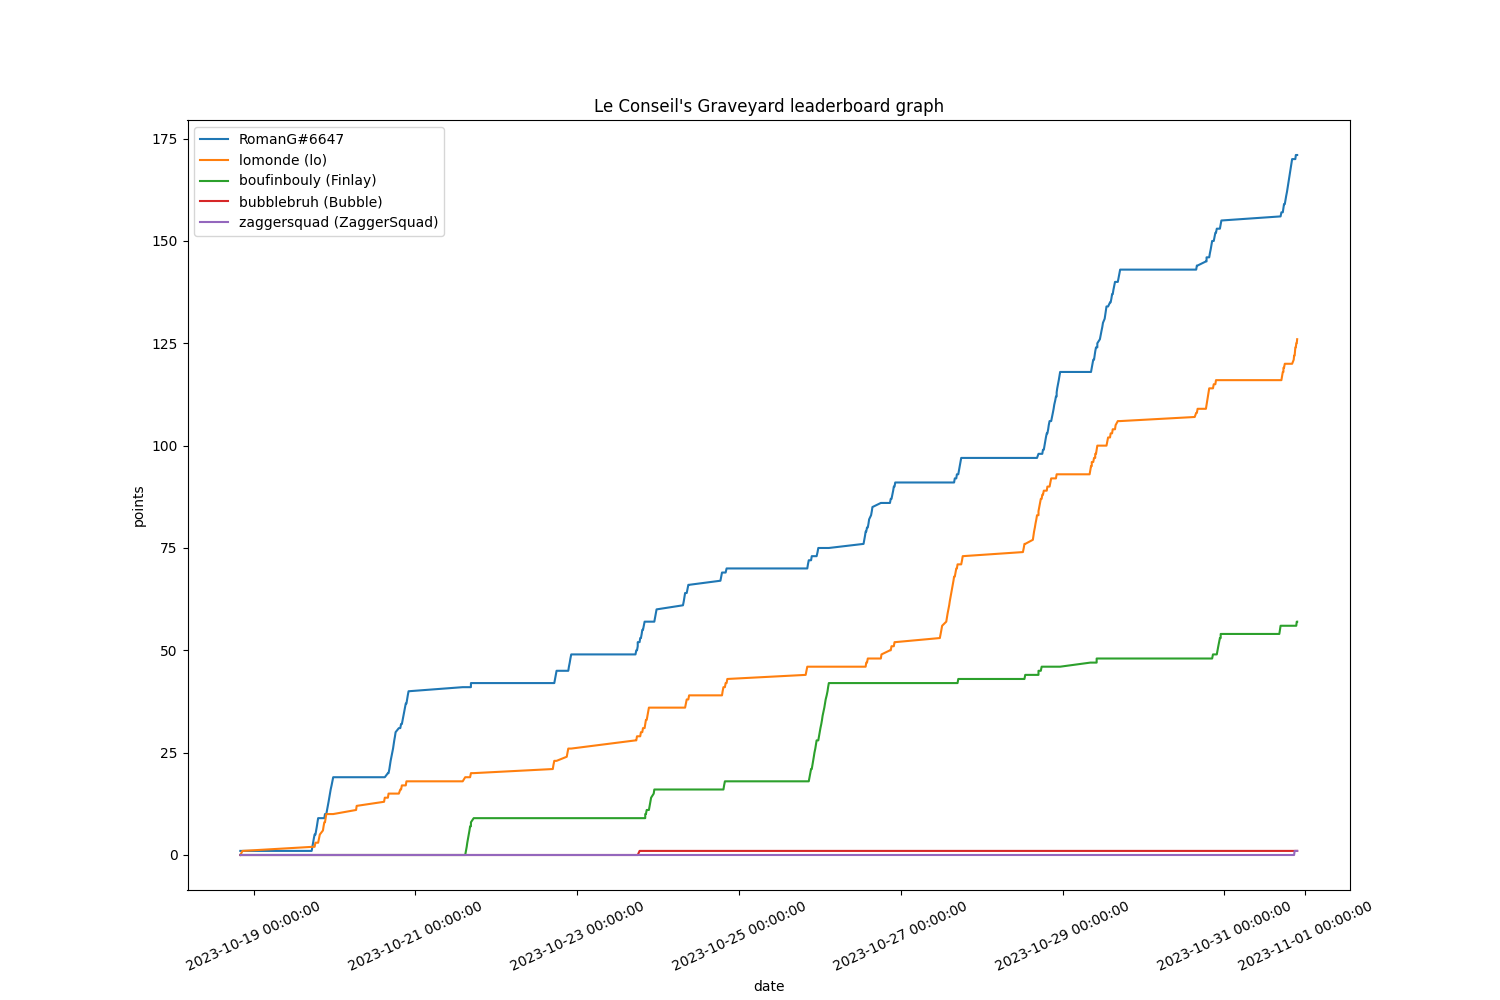
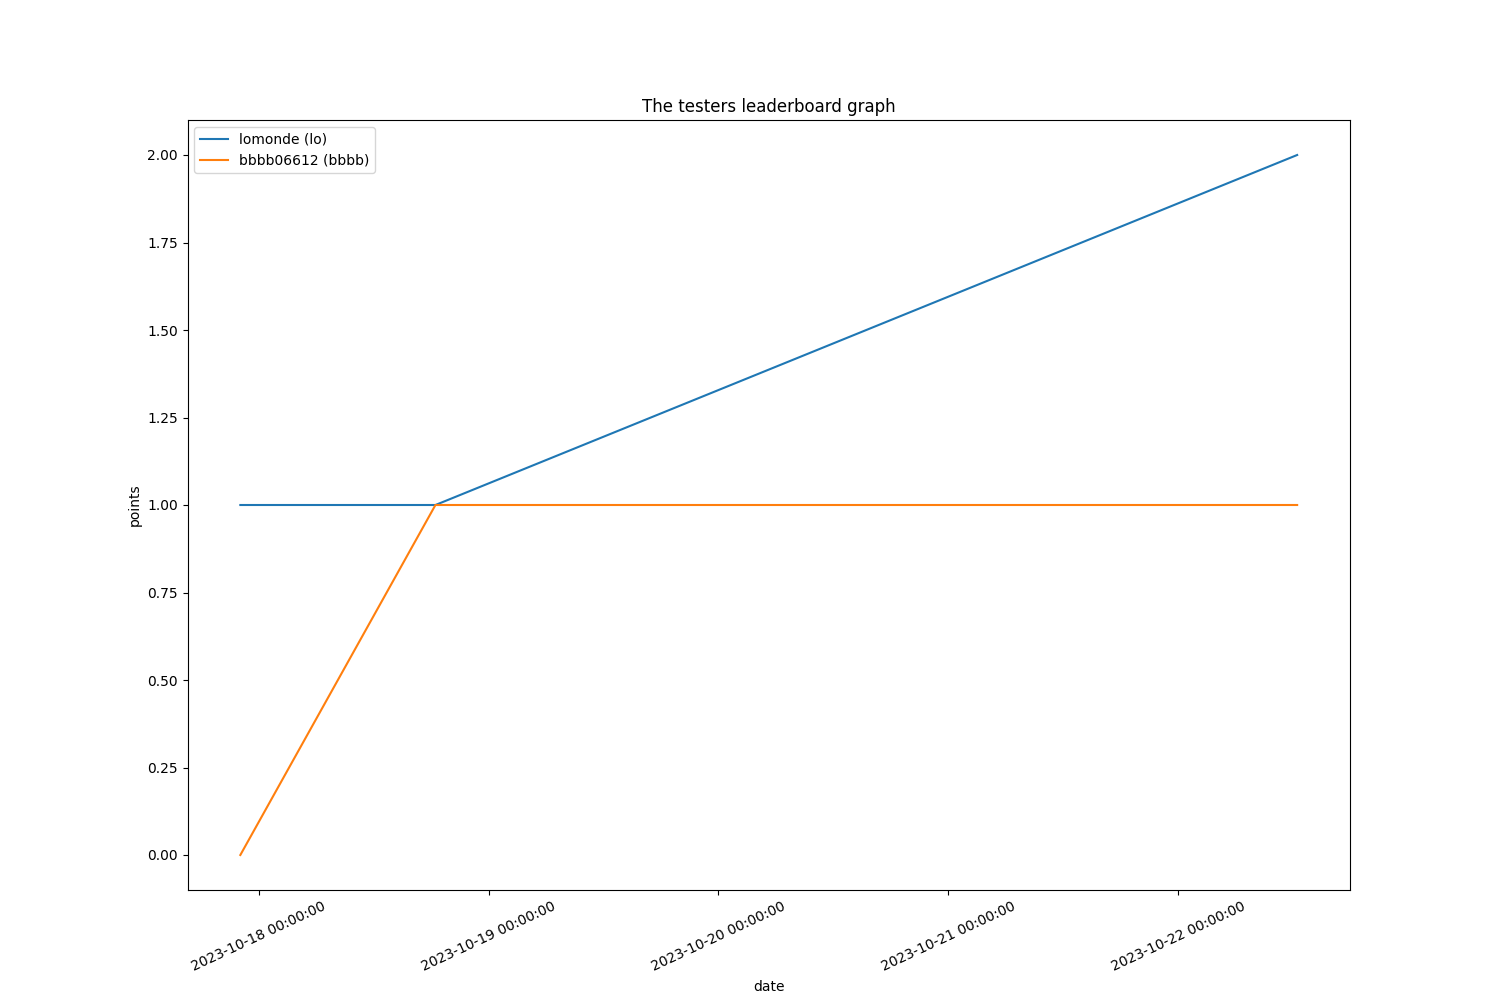
Initial 2024 version
This year's changes include a dockerized deployment.

diff --git a/main.py b/main.py
@@ -11,7 +11,7 @@ import random
 import asyncio
 import time
 
-# for generating the graph
+# for generating the grßaph
 import matplotlib.pyplot as plt 
 import matplotlib.dates as md
 import datetime as dt 
@@ -25,18 +25,19 @@ VISITORS_NUMBER = 15 # number of visitors. Might have to fix this in the future
 cooldown = None
 count = 0
 # The footer text
-FOOTER_TEXT = "In moon we goon"
+FOOTER_TEXT = "Science allows tardigrades to be quantum entangled"
 
 ## MUST REWORK (Temporary Solution)
 visitorTimeout = False # basically one needs to be true and one needs to be false in order to activate the timeout thingy 
 visitorTimeout2 = True
 
 MAX_VISITOR_TIMEOUT = 300 # 300
-MIN_VISIT_TIME =300 #This is the variable to change the minimum random time for a visitor to appear 600
-MAX_VISIT_TIME = 600 #THis is the variable to change the maximum random time for a visitor to appear 900
+MIN_VISIT_TIME =10 #This is the variable to change the minimum random time for a visitor to appear 600
+MAX_VISIT_TIME = 20 #THis is the variable to change the maximum random time for a visitor to appear 900
 
 # the discord server that will have access to the commands (change this later)
-bot = discord.Bot(debug_guilds=[712452604713762837])
+bot = discord.Bot(debug_guilds=[982666098551955518])
+
 
 @bot.event
 async def on_ready():
@@ -171,7 +172,7 @@ class MyDisabled(discord.ui.View):
 class MyOptions(discord.ui.View):
     global on_timeout     
     async def on_timeout(self):
-        timeoutEmbed=discord.Embed(title=f"Uh oh! 💀", description=f"It seems that nobody has answered the door, \n so {name} took it personally and wrote a rant on Twitter.com", color=0xff8000)
+        timeoutEmbed=discord.Embed(title=f"Uh oh! 💀", description=f"It seems that nobody has answered the door, \n so {name} took it personally and wrote a rant on x.com", color=0xff8000)
         timeoutEmbed.set_footer(text=FOOTER_TEXT)
         timeoutEmbed.set_image(url="https://media.giphy.com/media/XIqCQx02E1U9W/giphy.gif")
         for child in self.children:
